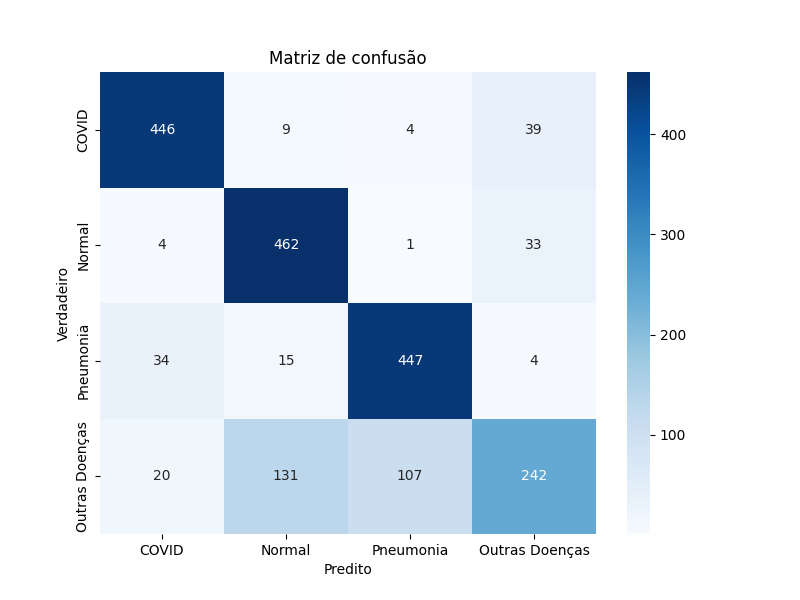
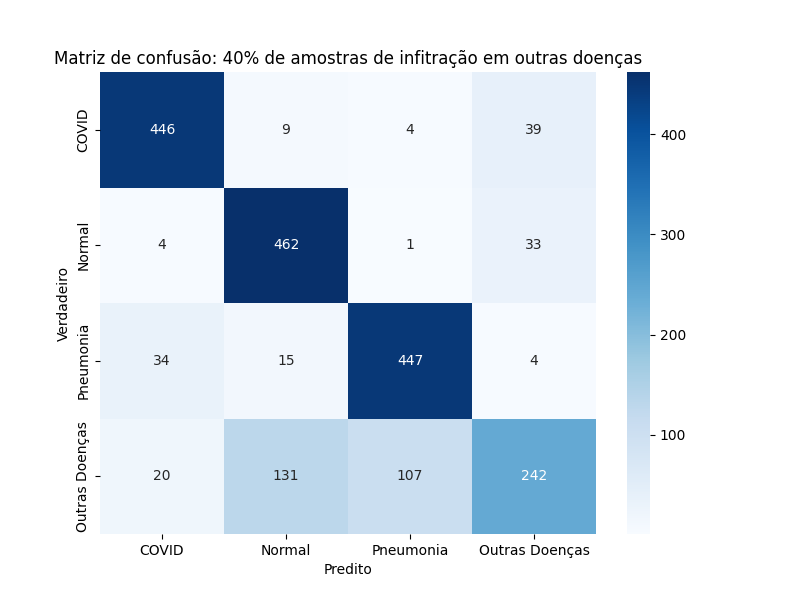
more experiments, changing matrix confusion text

Changed region(s): [[0.0625, 0.09, 0.8125, 0.12]]

diff --git a/cmd/test_model_retrained.py b/cmd/test_model_retrained.py
@@ -20,6 +20,8 @@ from sklearn.metrics import confusion_matrix, multilabel_confusion_matrix, recal
 
 # ================================================
 
+classes = ['COVID', 'Normal', 'Pneumonia', 'Outras Doenças']
+
 PATH_ROOT = os.getenv('PATH_ROOT')
 TEST_STATS_PATH = os.getenv('TEST_STATS_PATH')
 TEST_DATASET_PATH = os.getenv('TEST_DATASET_PATH')
@@ -60,10 +62,10 @@ with open(os.path.join(TEST_STATS_PATH, 'retest_stats.json'), 'w') as f:
 
 # Plotando a matriz de confusão
 plt.figure(figsize=(8, 6))
-sns.heatmap(conf_matrix, annot=True, fmt='g', cmap='Blues')
-plt.xlabel('Predicted Label')
-plt.ylabel('True Label')
-plt.title('Confusion Matrix')
+sns.heatmap(conf_matrix, annot=True, fmt='g', cmap='Blues', xticklabels=classes, yticklabels=classes)
+plt.xlabel('Predito')
+plt.ylabel('Verdadeiro')
+plt.title('Matriz de confusão')
 plt.savefig(os.path.join(TEST_STATS_PATH, 'retest_confusion_matrix.png'))
 
 parameters = { 'tax_samples': tax_samples }

diff --git a/cmd/experiments_remake.py b/cmd/experiments_remake.py
@@ -80,7 +80,7 @@ for percentage in percents_of_unknown_samples:
     sns.heatmap(conf_matrix, annot=True, fmt='g', cmap='Blues', xticklabels=classes, yticklabels=classes)
     plt.xlabel('Predito')
     plt.ylabel('Verdadeiro')
-    plt.title('Matriz de confusão')
+    plt.title(f'Matriz de confusão: {int(percentage)}% de amostras de infitração em outras doenças')
     plt.savefig(os.path.join(EXPERIMENT_STATS_PATH, f'retrained_confusion_matrix_{percentage}.png'))
 
     # has_concept_drift = detect_experiment_remake_concept_drift(stats=stats)

diff --git a/cmd/experiments.py b/cmd/experiments.py
@@ -86,7 +86,7 @@ for percentage in percents_of_unknown_samples:
     sns.heatmap(conf_matrix, annot=True, fmt='g', cmap='Blues', xticklabels=classes, yticklabels=classes)
     plt.xlabel('Predito')
     plt.ylabel('Verdadeiro')
-    plt.title('Matriz de confusão')
+    plt.title(f'Matriz de confusão: {int(percentage)}% de amostras de infitração em outras doenças')
     plt.savefig(os.path.join(EXPERIMENT_STATS_PATH, f'confusion_matrix_{percentage}.png'))
 
     has_concept_drift = detect_experimet_concept_drift(stats=stats)
